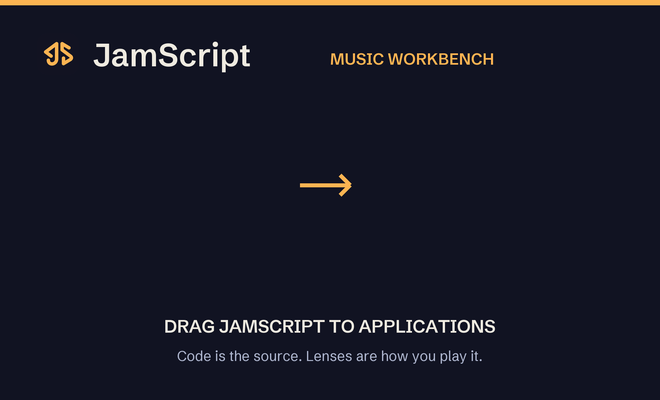
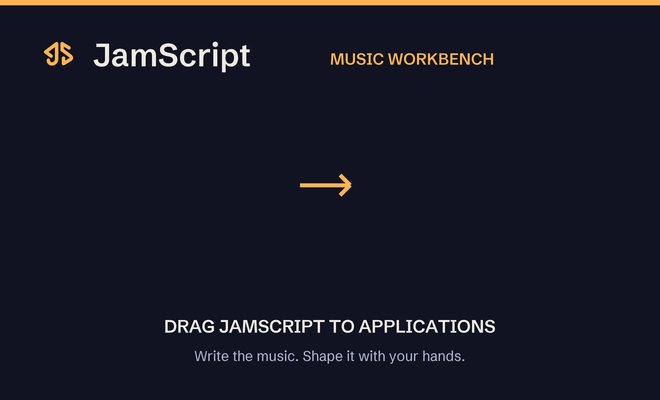
feat: History tab and plainer terminology, new tagline, cleaner presentation; release desktop v0.3.8

Changed region(s): [[0.2727, 0.87, 0.7273, 0.93]]

diff --git a/src/workbench/OutputPanel.tsx b/src/workbench/OutputPanel.tsx
@@ -199,7 +199,7 @@ export function OutputPanel({
           aria-controls="jam-takes-content"
           onClick={() => setTab("takes")}
         >
-          Takes{takes.length ? ` (${takes.length})` : ""}
+          History{takes.length ? ` (${takes.length})` : ""}
         </button>
         <button
           role="tab"
@@ -238,7 +238,7 @@ export function OutputPanel({
         <div id="jam-takes-content" role="tabpanel" className="jam-output-body jam-takes-body">
           {takes.length ? (
             <>
-              <div className="jam-takes-list" aria-label="Saved Takes">
+              <div className="jam-takes-list" aria-label="Saved versions">
                 {takes.map((take) => (
                   <button
                     key={take.id}
@@ -246,8 +246,8 @@ export function OutputPanel({
                     aria-pressed={selectedTakeId === take.id}
                     onClick={() => setSelectedTakeId(take.id)}
                   >
-                    {take.label ?? "Saved Take"} · {new Date(take.createdAt).toLocaleString()}
-                    {auditionTakeId === take.id ? " · Auditioning" : ""}
+                    {take.label ?? "Saved version"} · {new Date(take.createdAt).toLocaleString()}
+                    {auditionTakeId === take.id ? " · Listening" : ""}
                   </button>
                 ))}
               </div>
@@ -260,7 +260,7 @@ export function OutputPanel({
                   </p>
                   <div className="jam-take-actions">
                     <button type="button" onClick={() => onAuditionTake(selectedTake)}>
-                      Audition
+                      Listen
                     </button>
                     {auditionTakeId && (
                       <button type="button" onClick={onReturnToLive}>
@@ -279,7 +279,7 @@ export function OutputPanel({
                     <summary>Compare source</summary>
                     <div className="jam-take-compare">
                       <div>
-                        <strong>Saved Take</strong>
+                        <strong>Saved version</strong>
                         <pre>{selectedTake.source}</pre>
                       </div>
                       <div>
@@ -292,7 +292,7 @@ export function OutputPanel({
               )}
             </>
           ) : (
-            <p>No Takes yet. A successful Play saves the first one on this device.</p>
+            <p>No history yet. Each successful Play saves a version here, on this device.</p>
           )}
         </div>
       ) : (

diff --git a/src/presentation/presentation.css b/src/presentation/presentation.css
@@ -125,15 +125,6 @@
   justify-content: center;
   padding: 36px 4vw 66px clamp(30px, 6vw, 112px);
 }
-.pitch-copy::before {
-  content: "";
-  position: absolute;
-  left: clamp(30px, 6vw, 112px);
-  top: 13%;
-  height: 26px;
-  width: 2px;
-  background: var(--pitch-amber);
-}
 .pitch-eyebrow {
   margin: 0 0 30px;
   color: var(--pitch-amber);
@@ -145,7 +136,7 @@
 .pitch-copy h1 {
   max-width: 700px;
   margin: 0;
-  font-size: clamp(3.4rem, 5.1vw, 6.2rem);
+  font-size: clamp(2.8rem, 4.2vw, 5.1rem);
   font-weight: 600;
   line-height: 0.99;
   letter-spacing: -0.06em;
@@ -687,6 +678,10 @@
     monospace;
   white-space: nowrap;
 }
+.pitch-audience-track > :not(i) {
+  position: relative;
+  z-index: 1;
+}
 .pitch-audience-track {
   position: relative;
   display: flex;
@@ -705,10 +700,12 @@
 }
 .pitch-audience-track i {
   position: absolute;
-  top: -5px;
-  left: 7%;
+  top: 50%;
+  left: 4%;
+  z-index: 0;
   width: 10px;
   height: 10px;
+  margin: -5px 0 0 -5px;
   border-radius: 50%;
   background: var(--pitch-amber);
   box-shadow: 0 0 18px var(--pitch-amber);
@@ -767,6 +764,7 @@
   width: 124%;
 }
 .pitch-footer {
+  display: none;
   position: relative;
   z-index: 6;
   flex: 0 0 auto;
@@ -844,7 +842,7 @@
   z-index: 10;
   top: 72px;
   right: 0;
-  bottom: 75px;
+  bottom: 0;
   width: min(420px, 100vw);
   overflow-y: auto;
   padding: 24px 28px;
@@ -977,7 +975,6 @@
   .pitch-copy {
     padding-left: 35px;
   }
-  .pitch-copy::before,
   .pitch-copy-number {
     left: 35px;
   }
@@ -1032,13 +1029,8 @@
     min-height: 300px;
     padding: 48px 25px 30px;
   }
-  .pitch-copy::before {
-    left: 25px;
-    top: 25px;
-    height: 14px;
-  }
   .pitch-copy h1 {
-    font-size: clamp(3rem, 10vw, 5rem);
+    font-size: clamp(2.5rem, 8.5vw, 4.2rem);
   }
   .pitch-summary {
     margin-top: 22px;
@@ -1071,11 +1063,11 @@
   }
   .pitch-notes {
     top: 58px;
-    bottom: 65px;
+    bottom: 0;
   }
   .pitch-overlay {
     top: 58px;
-    bottom: 65px;
+    bottom: 0;
   }
   .pitch-overview-grid {
     grid-template-columns: repeat(2, minmax(0, 1fr));

diff --git a/src/workbench/SessionWorkbench.tsx b/src/workbench/SessionWorkbench.tsx
@@ -402,7 +402,7 @@ export function SessionWorkbench({
           if (current) setTakes(items);
         })
         .catch((cause: unknown) => {
-          if (current) setError(`Could not load Takes: ${message(cause)}`);
+          if (current) setError(`Could not load history: ${message(cause)}`);
         });
       return () => {
         current = false;
@@ -683,7 +683,7 @@ export function SessionWorkbench({
                   if (mounted.current && activeIdRef.current === documentId) setTakes(items);
                 })
                 .catch((cause: unknown) => {
-                  if (mounted.current) setError(`Could not save Take: ${message(cause)}`);
+                  if (mounted.current) setError(`Could not save a version: ${message(cause)}`);
                 });
             if (pendingLiveTake.current) clearTimeout(pendingLiveTake.current);
             pendingLiveTake.current = null;
@@ -1078,7 +1078,7 @@ export function SessionWorkbench({
         if (next) setOpenIds((ids) => (ids.includes(next.id) ? ids : [...ids, next.id]));
       }
       void deleteDocumentTakes(item.id).catch((cause: unknown) =>
-        setError(`Could not clear Takes for ${item.name}: ${message(cause)}`),
+        setError(`Could not clear the history of ${item.name}: ${message(cause)}`),
       );
     } catch (cause) {
       setError(message(cause));
@@ -1695,7 +1695,7 @@ export function SessionWorkbench({
                                 void Promise.all(
                                   removedDocuments.map((doc) => deleteDocumentTakes(doc.id)),
                                 ).catch((cause: unknown) =>
-                                  setError(`Could not clear old Takes: ${message(cause)}`),
+                                  setError(`Could not clear old history: ${message(cause)}`),
                                 );
                               } catch (cause) {
                                 setError(message(cause));

diff --git a/src/routes/docs.tsx b/src/routes/docs.tsx
@@ -125,9 +125,11 @@ function DocsPage() {
             <span className="jam-docs-number">05 / TAKE IT OUT</span>
             <h2>Export and history</h2>
             <p>
-              Export the active main flow as WAV or MP3 from the workbench. Local Takes record
-              successful evaluations per document, so you can compare, audition, or restore an
-              earlier source snapshot. A Take is local history, not a shared version.
+              Export the active main flow as WAV or MP3 from the workbench. The{" "}
+              <strong>History</strong> tab in the bottom panel saves a version of each document
+              every time you press Play, with a label like “bass lpf 1200 → 430”. Select one to
+              listen to it without changing your song, compare it with your code, or restore it.
+              History stays on this device; it is not a shared version.
             </p>
           </section>
           <section id="shortcuts">

diff --git a/src/test/takes-output.test.tsx b/src/test/takes-output.test.tsx
@@ -39,9 +39,9 @@ describe("real Takes panel", () => {
         }}
       />,
     );
-    fireEvent.click(screen.getByRole("tab", { name: "Takes (1)" }));
-    fireEvent.click(screen.getByRole("button", { name: /Saved Take/ }));
-    fireEvent.click(screen.getByRole("button", { name: "Audition" }));
+    fireEvent.click(screen.getByRole("tab", { name: "History (1)" }));
+    fireEvent.click(screen.getByRole("button", { name: /Saved version/ }));
+    fireEvent.click(screen.getByRole("button", { name: "Listen" }));
     fireEvent.click(screen.getByRole("button", { name: "Restore to editor" }));
     expect(onAuditionTake).toHaveBeenCalledWith(take);
     expect(onRestoreTake).toHaveBeenCalledWith(take);

diff --git a/src/presentation/deck.ts b/src/presentation/deck.ts
@@ -108,12 +108,12 @@ export const pitchSlides: PitchSlide[] = [
     eyebrow: "JAMSCRIPT",
     title: "Stay with",
     emphasis: "the music.",
-    summary: "Code is the source. Lenses are how you play it.",
+    summary: "Write the music. Shape it with your hands.",
     cue: "The controls fade into the source. The JamScript name remains.",
     notes: [
       "We started with a small frustration: a simple change shouldn’t interrupt a good idea.",
       "JamScript brings the controls to the code, so you can keep making music.",
-      "[Pause.] Code is the source. Lenses are how you play it.",
+      "[Pause.] Write the music. Shape it with your hands.",
       "Thank you.",
     ],
   },

diff --git a/src/presentation/PitchScenes.tsx b/src/presentation/PitchScenes.tsx
@@ -320,8 +320,9 @@ function AudienceScene({ reduced }: { reduced: boolean }) {
         <Music2 size={20} aria-hidden="true" />
         <span>ONE SHARED SONG</span>
         <motion.i
-          animate={reduced ? {} : { x: [0, 360, 0] }}
-          transition={{ duration: 4, repeat: Infinity, ease: "easeInOut" }}
+          initial={{ left: "4%" }}
+          animate={reduced ? { left: "4%" } : { left: ["4%", "96%", "4%"] }}
+          transition={{ duration: 6, repeat: Infinity, ease: "easeInOut" }}
         />
       </div>
     </div>

diff --git a/scripts/generate-brand-surfaces.py b/scripts/generate-brand-surfaces.py
@@ -164,7 +164,7 @@ def dmg_art():
     dmg.line([(300, 185), (350, 185)], AMBER, width=4)
     dmg.line([(340, 175), (350, 185), (340, 195)], AMBER, width=4)
     dmg.text((330, 315), "DRAG JAMSCRIPT TO APPLICATIONS", 18, PAPER, bold=True, anchor="ma")
-    dmg.text((330, 347), "Code is the source. Lenses are how you play it.", 14, MUTED, anchor="ma")
+    dmg.text((330, 347), "Write the music. Shape it with your hands.", 14, MUTED, anchor="ma")
     dmg.save(INSTALLER / "dmg-background.png")
 
 

diff --git a/PRODUCT.md b/PRODUCT.md
@@ -18,11 +18,11 @@ Developers who jam and musicians comfortable exploring code. Someone should be a
 
 ## Product Purpose
 
-Code is the source. Lenses are how you play it. JamScript keeps Strudel programs directly editable while rhythm controls and knobs project precisely identified parts of that code. A VS Code style workbench organizes projects, history and assistance around this music editor.
+Write the music. Shape it with your hands. JamScript keeps Strudel programs directly editable while rhythm controls and knobs project precisely identified parts of that code. A VS Code style workbench organizes projects, history and assistance around this music editor.
 
 ## Positioning
 
-The differentiator is the combination of inferred editable lenses, shared projections, musical history and reviewed assistance. Strudel supplies the music runtime. JamScript supplies the workbench and safe editing tools. Complex Strudel programs must remain usable even when a lens cannot safely edit an expression.
+The differentiator is the combination of inferred editable controls, shared projections, musical history and reviewed assistance. Strudel supplies the music runtime. JamScript supplies the workbench and safe editing tools. Complex Strudel programs must remain usable even when a lens cannot safely edit an expression.
 
 ## Operating Context
 
@@ -34,21 +34,31 @@ The browser workbench has an activity bar, Files sidebar, document tabs, central
 
 Musicians work primarily in BPM. Documents default to four beats per cycle: 120 BPM equals 0.5 CPS. Editing BPM updates a supported source expression after typing pauses, with immediate Enter/blur application and the editor's undo history. Code edits update the display; unsupported or ambiguous tempo expressions disable visual writes. A per-document beats-per-cycle setting and advanced CPS view are available. A cycle is not inherently a bar or a beat; changing its interpretation does not change playback speed.
 
+## Terminology
+
+Use plain words in the product, documentation and marketing. The original hackathon plan used internal names; they remain only as code identifiers.
+
+| Say this                | Not this (plan and code name) | What it is                                                                                    |
+| ----------------------- | ----------------------------- | --------------------------------------------------------------------------------------------- |
+| Controls (steps, knobs) | Lens                          | An editable view of a piece of code. `lens` stays an internal term in the source.             |
+| History / saved version | Take                          | A snapshot saved on each successful Play, labelled by what changed. The History tab lists it. |
+| Assistant, Edit mode    | Rework                        | An assistant edit shown as a diff that you review before it is applied.                       |
+
 ## Capabilities and Constraints
 
-| Capability                                | Current state                                                                                                                                                                                                                                                                                                                                      |
-| ----------------------------------------- | -------------------------------------------------------------------------------------------------------------------------------------------------------------------------------------------------------------------------------------------------------------------------------------------------------------------------------------------------- |
-| Editing, rhythm/parameter lenses and undo | Working CodeMirror editor; supported numeric parameters in nested stacks and unambiguous named pattern chains, including the coastline fixture                                                                                                                                                                                                     |
-| Browser workspaces and documents          | IndexedDB create, rename, delete and autosave; explicit Night bus template; open document tabs keep separate CodeMirror state                                                                                                                                                                                                                      |
-| Clerk account controls                    | Sign-in, sign-up and signed-in user controls; browser workspaces remain usable without an account                                                                                                                                                                                                                                                  |
-| Playback and audio output                 | Real Strudel adapter evaluates the active editor; audiocn Level Meter and Spectrum read its output analyser                                                                                                                                                                                                                                        |
-| Inspector                                 | audiocn Knob and Parameter Slider write supported source parameters through the checked patcher                                                                                                                                                                                                                                                    |
-| Complex programs                          | Editable as code; supported literal parameters surface as controls in compatibility fixtures. General MIDI soundfonts are registered for playback. Full audio quality verification remains pending                                                                                                                                                 |
-| Takes                                     | Local successful-evaluation snapshots in IndexedDB, with audition, one-step editor restore and labels for recognized control changes; shared history remains planned                                                                                                                                                                               |
-| Git and Rework                            | Desktop activity-bar Git sidebar: init, add/update origin, commit selected music files, non-force push and fast-forward pull, plus clone into an empty folder. GitHub credentials use OS keychain storage with optional device authorization (`JAMSCRIPT_GITHUB_CLIENT_ID`) or a pasted fine-grained token.                                        |
-| Desktop files and IntelliSense            | Desktop opens a selected folder, saves, recovers unsaved buffers, and compares disk conflicts. An offline TypeScript/Strudel worker provides inferred JavaScript members, signatures, definitions, references and rename with shared browser/desktop suggestion UI                                                                                 |
-| Workspace agent                           | Server-only Gemini Ask/Edit chat for browser and desktop (desktop calls the Worker via `JAMSCRIPT_DESKTOP_PUBLIC_API_ORIGIN`). Ask can use active or workspace source context; Edit returns structured, syntax-checked multi-file proposals for review and CodeMirror apply. Chat history and cancellation work locally. Git tools remain planned. |
-| Collaborators                             | Owners invite by email, list members and pending invites, and can remove non-owner members. Connected peers show coloured avatars, tab dots for which file they have open, named cursors in the editor, and names in the status bar                                                                                                                |
+| Capability                                  | Current state                                                                                                                                                                                                                                                                                                                                      |
+| ------------------------------------------- | -------------------------------------------------------------------------------------------------------------------------------------------------------------------------------------------------------------------------------------------------------------------------------------------------------------------------------------------------- |
+| Editing, rhythm/parameter controls and undo | Working CodeMirror editor; supported numeric parameters in nested stacks and unambiguous named pattern chains, including the coastline fixture                                                                                                                                                                                                     |
+| Browser workspaces and documents            | IndexedDB create, rename, delete and autosave; explicit Night bus template; open document tabs keep separate CodeMirror state                                                                                                                                                                                                                      |
+| Clerk account controls                      | Sign-in, sign-up and signed-in user controls; browser workspaces remain usable without an account                                                                                                                                                                                                                                                  |
+| Playback and audio output                   | Real Strudel adapter evaluates the active editor; audiocn Level Meter and Spectrum read its output analyser                                                                                                                                                                                                                                        |
+| Inspector                                   | audiocn Knob and Parameter Slider write supported source parameters through the checked patcher                                                                                                                                                                                                                                                    |
+| Complex programs                            | Editable as code; supported literal parameters surface as controls in compatibility fixtures. General MIDI soundfonts are registered for playback. Full audio quality verification remains pending                                                                                                                                                 |
+| History (saved versions)                    | Local successful-evaluation snapshots in IndexedDB, with audition, one-step editor restore and labels for recognized control changes; shared history remains planned                                                                                                                                                                               |
+| Git and assistant edits                     | Desktop activity-bar Git sidebar: init, add/update origin, commit selected music files, non-force push and fast-forward pull, plus clone into an empty folder. GitHub credentials use OS keychain storage with optional device authorization (`JAMSCRIPT_GITHUB_CLIENT_ID`) or a pasted fine-grained token.                                        |
+| Desktop files and IntelliSense              | Desktop opens a selected folder, saves, recovers unsaved buffers, and compares disk conflicts. An offline TypeScript/Strudel worker provides inferred JavaScript members, signatures, definitions, references and rename with shared browser/desktop suggestion UI                                                                                 |
+| Workspace agent                             | Server-only Gemini Ask/Edit chat for browser and desktop (desktop calls the Worker via `JAMSCRIPT_DESKTOP_PUBLIC_API_ORIGIN`). Ask can use active or workspace source context; Edit returns structured, syntax-checked multi-file proposals for review and CodeMirror apply. Chat history and cancellation work locally. Git tools remain planned. |
+| Collaborators                               | Owners invite by email, list members and pending invites, and can remove non-owner members. Connected peers show coloured avatars, tab dots for which file they have open, named cursors in the editor, and names in the status bar                                                                                                                |
 
 The track mixer routes independently mixable patterns. A stack with effects applied after it keeps its original Strudel audio routing; source controls remain available, and individual track faders are omitted to avoid changing the sound.
 
@@ -60,7 +70,7 @@ The workspace agent uses Gemini, with the project owner's key stored only in pri
 
 ## Brand Commitments
 
-- Name: JamScript. Tagline: "Code is the source. Lenses are how you play it."
+- Name: JamScript. Tagline: "Write the music. Shape it with your hands."
 - Dark indigo surfaces, warm paper text, sparse amber actions and the two existing font families.
 - A compact JS/code-and-rhythm symbol with a Schibsted Grotesk wordmark; use the production assets in public/brand.
 - Credit Strudel and preserve third-party notices. The project licence is AGPL-3.0-or-later in LICENSE; runtime notices are in THIRD_PARTY_NOTICES.txt. Keep the corresponding source available when distributing or hosting the application.

diff --git a/README.md b/README.md
@@ -1,8 +1,16 @@
 # JamScript
 
-Code is the source. Lenses are how you play it.
+Write the music. Shape it with your hands.
 
 JamScript is a live-coding music workbench built on [Strudel](https://strudel.cc). Write code, hear it instantly, and shape it with knobs and step grids that edit the source for you. It runs in the browser, on your phone and as a desktop app, and your music stays plain, readable code. **Top 10 at Hacktoberfest Georgia 2026.**
+
+## How JamScript works
+
+**Controls.** Your song is ordinary Strudel code, and JamScript puts controls right under the lines they belong to. Write `s("bd ~ sd ~")` and a row of steps appears; write `.lpf(1200)` and a knob appears. Tap a step or turn a knob and JamScript rewrites exactly those characters in your code; type in the code and the controls follow. The code is the only copy of the music, so the two never disagree. If a pattern is too complex to edit safely, the control is locked and says "Edit this pattern in code" instead of guessing.
+
+**History.** Every time you press Play, JamScript saves a version of your song and labels it in musical terms, for example "bass lpf 1200 → 430". Open the **History** tab in the bottom panel to listen to an older version without touching your song, compare it with your code, or restore it. That lets you try something wild and get back to the groove from two minutes ago. History stays on your device and is not a shared version.
+
+**Assistant.** Ask the assistant questions about your code, or use **Edit** to describe a change in words. It proposes the edit as a diff that you review, and nothing changes until you accept it.
 
 Use JamScript at [jamscript.dev](https://jamscript.dev) or get the [desktop app](https://github.com/GeorgeShani/jamscript/releases/latest). Desktop sign-in and collaboration connect to the same website.
 
@@ -80,7 +88,7 @@ Run `bun run emails:preview` to create `dist/email-preview/workspace-invitation.
 
 The chooser offers a new workspace and an explicit Night bus template. The Files sidebar creates, renames and deletes documents; tabs retain each open CodeMirror instance, including cursor and undo history. Play evaluates the active document. BPM uses four beats per cycle by default, so 120 BPM writes `setcps(0.5)` when that call has a supported, unambiguous syntax. Tempo settings can change this display interpretation per document and show the source CPS without changing playback speed. The Inspector writes supported parameters through the checked patcher. The Output panel's audiocn meter and spectrum read actual Strudel output.
 
-Browser workspaces do not request filesystem permissions. Clearing this site's browser storage deletes the local workspaces. JamScript manages workspaces independently of Git; native folder operations and optional Git integration are reserved for the desktop app. Repo, Takes, Rework, presence, Share, and AI controls return only after their backing services work.
+Browser workspaces do not request filesystem permissions. Clearing this site's browser storage deletes the local workspaces. JamScript manages workspaces independently of Git; native folder operations and optional Git integration are reserved for the desktop app. Repo, History, presence, Share, and assistant controls return only after their backing services work.
 
 Playback prepares sample buffers and General MIDI soundfonts before starting the scheduler, scanning up to 64 cycles and 128 distinct assets with six concurrent loads. Later, unseen assets in open-ended patterns still load on demand. Stop cancels preparation immediately and fades existing audio over 350 ms; restarting cancels the old fade. Evaluation errors still mute immediately.
 

diff --git a/CHANGELOG.md b/CHANGELOG.md
@@ -1,5 +1,11 @@
 # Changelog
 
+## 0.3.8
+
+- Plainer words: saved versions now live in a **History** tab, and the docs and README explain controls, history and the assistant without jargon.
+- A new tagline: "Write the music. Shape it with your hands."
+- The stage presentation is cleaner, with smaller titles, no bottom bar and no stray accent lines, and the shared-song animation sweeps the full width.
+
 ## 0.3.7
 
 - Phones: a calmer one-row toolbar with a More menu, a thumb-reach Play button, bottom tabs, wrapped and slightly smaller code, finger-sized controls, and a row of coding keys (brackets, quotes, `~ < > .`) above the keyboard.
